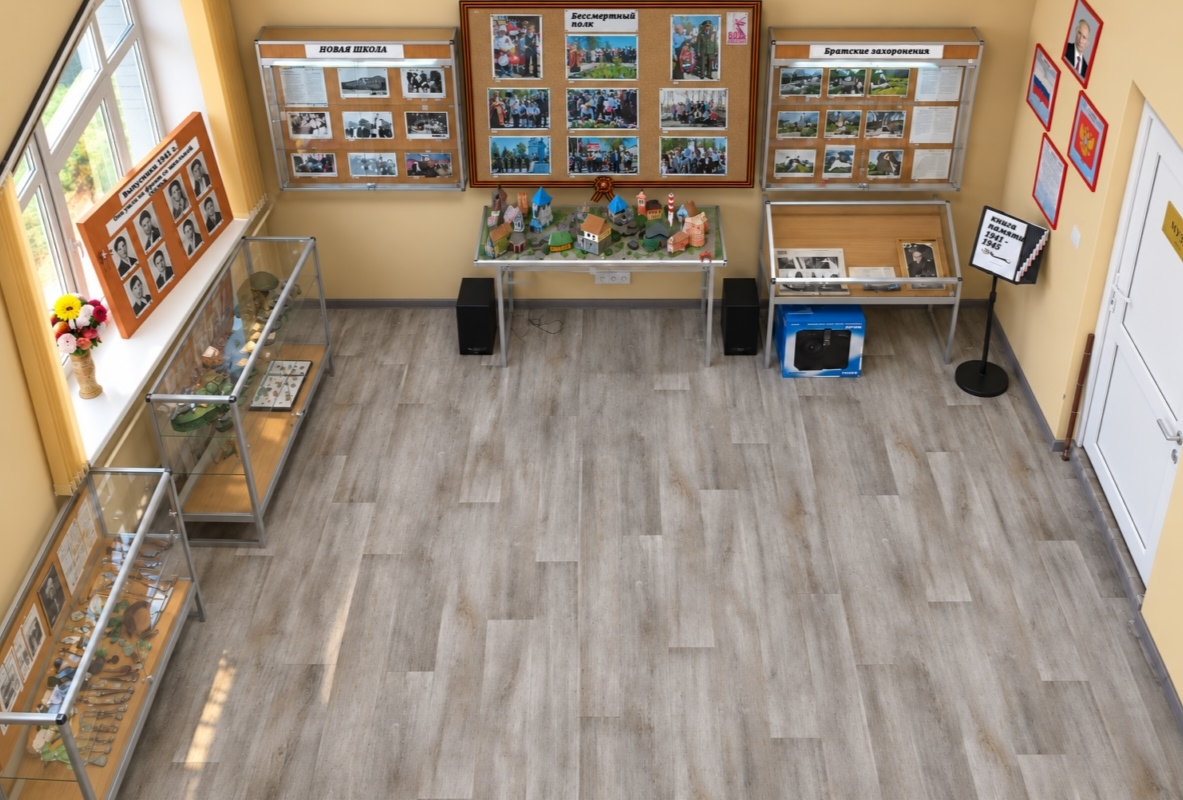
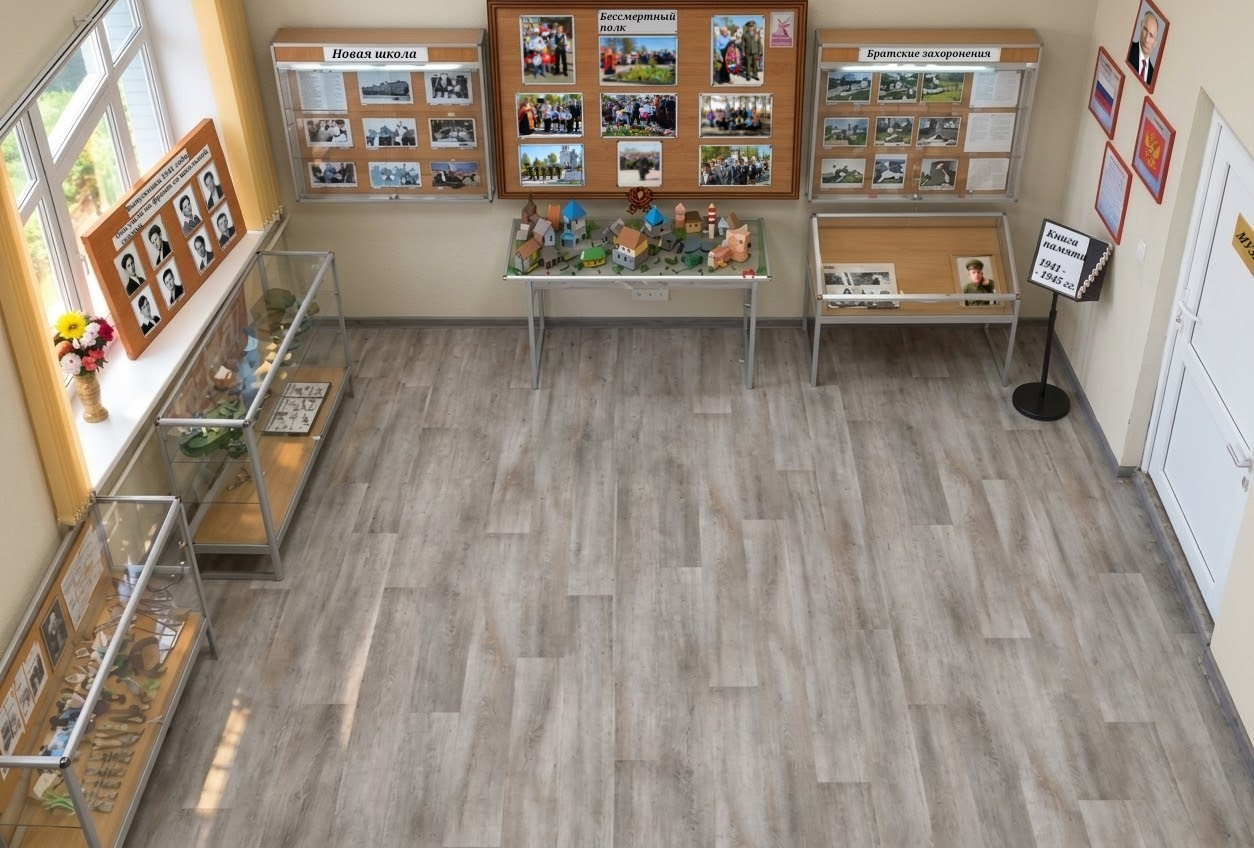
Refresh entrance panorama and marker alignment

diff --git a/script.js b/script.js
@@ -288,18 +288,18 @@ const HOTSPOTS = {
 };
 
 const MAP_OBJECTS = [
-  { id: "Putin_Vladimir_Vladimirovich(1)", title: "Президент Российской Федерации", color: "gold", left: "91.5%", top: "4.2%", type: "exhibit" },
-  { id: "Flag_RF(2)", title: "Государственный флаг России", color: "gold", left: "88.8%", top: "9.8%", type: "exhibit" },
-  { id: "Gerb_RF(3)", title: "Государственный герб России", color: "gold", left: "93.1%", top: "15.6%", type: "exhibit" },
-  { id: "Hymn_RF(4)", title: "Государственный гимн России", color: "gold", left: "88.8%", top: "19.6%", type: "exhibit" },
-  { id: "kniga_pamyati(5)", title: "Книга памяти 1941–1945", color: "gold", left: "85.6%", top: "32.2%", type: "book" },
-  { id: "bratskiye_zakhoroneniya(6)", title: "Стенд «Братские захоронения»", color: "red", left: "73.2%", top: "11.4%", type: "scene" },
-  { id: "Bessmertny_Polk(7)", title: "Стенд «Бессмертный полк»", color: "red", left: "49.8%", top: "12.2%", type: "scene" },
-  { id: "Novay_School_vitrina(8)", title: "Витрина «Новая школа»", color: "red", left: "28.6%", top: "12.0%", type: "scene" },
-  { id: "vipuskniki_1941g(9)", title: "Выпускники 1941 года", color: "red", left: "15%", top: "30%", type: "scene" },
-  { id: "vitrina_tankov(10)", title: "Витрина военной техники", color: "green", left: "19.6%", top: "38.4%", type: "exhibit" },
-  { id: "medicinskaya_vitrina(11)", title: "Медицинская витрина", color: "green", left: "9.8%", top: "68.5%", type: "exhibit" },
-  { id: "maket_boev(12)", title: "Макет уличных боёв", color: "blue", left: "47.6%", top: "30.8%", type: "exhibit" },
+  { id: "Putin_Vladimir_Vladimirovich(1)", title: "Президент Российской Федерации", color: "gold", left: "91.4%", top: "5.2%", type: "exhibit" },
+  { id: "Flag_RF(2)", title: "Государственный флаг России", color: "gold", left: "88.2%", top: "11.1%", type: "exhibit" },
+  { id: "Gerb_RF(3)", title: "Государственный герб России", color: "gold", left: "91.9%", top: "17.6%", type: "exhibit" },
+  { id: "Hymn_RF(4)", title: "Государственный гимн России", color: "gold", left: "88.7%", top: "22.8%", type: "exhibit" },
+  { id: "kniga_pamyati(5)", title: "Книга памяти 1941–1945", color: "gold", left: "84.4%", top: "31.4%", type: "book" },
+  { id: "bratskiye_zakhoroneniya(6)", title: "Стенд «Братские захоронения»", color: "red", left: "75.0%", top: "16.2%", type: "scene" },
+  { id: "Bessmertny_Polk(7)", title: "Стенд «Бессмертный полк»", color: "red", left: "51.3%", top: "12.0%", type: "scene" },
+  { id: "Novay_School_vitrina(8)", title: "Витрина «Новая школа»", color: "red", left: "30.2%", top: "16.4%", type: "scene" },
+  { id: "vipuskniki_1941g(9)", title: "Выпускники 1941 года", color: "red", left: "13.2%", top: "28.9%", type: "scene" },
+  { id: "vitrina_tankov(10)", title: "Витрина военной техники", color: "green", left: "21.9%", top: "39.5%", type: "exhibit" },
+  { id: "medicinskaya_vitrina(11)", title: "Медицинская витрина", color: "green", left: "9.4%", top: "78.0%", type: "exhibit" },
+  { id: "maket_boev(12)", title: "Макет уличных боёв", color: "blue", left: "51.2%", top: "32.0%", type: "exhibit" },
   { id: "vitrina_pamyati(13)", title: "Витрина памяти", color: "green", left: "67.4%", top: "31.0%", type: "scene" },
 ];
 
@@ -538,7 +538,11 @@ function encodePath(dir, file, preserveImageFormat = false) {
   const path = dir + encodeURIComponent(imageFile).replace(/%2F/g, "/");
   const isUpdatedMemoryDisplay = dir === IMAGE_DIR &&
     /^vitrina_pamyati\(13\)(?:_hits_for_markers|_\(GX\)(?:_full_view_photo)?)?\.(?:jpe?g|webp)$/i.test(imageFile);
-  return isUpdatedMemoryDisplay ? `${path}?v=20261108-1` : path;
+  const isUpdatedEntranceMap = dir === IMAGE_DIR &&
+    /^interior_of_the_museum_entrance(?:_hits_for_markers)?\.(?:png|jpe?g|webp)$/i.test(imageFile);
+  return isUpdatedMemoryDisplay
+    ? `${path}?v=20261108-1`
+    : isUpdatedEntranceMap ? `${path}?v=20261108-2` : path;
 }
 
 function createPanZoom(viewport, world) {

diff --git a/index.html b/index.html
@@ -234,6 +234,6 @@
     <button class="book-nav next" type="button" id="bookNext" aria-label="Следующая страница"></button>
   </div>
 
-  <script src="script.js?v=20261108-1"></script>
+  <script src="script.js?v=20261108-3"></script>
 </body>
 </html>
